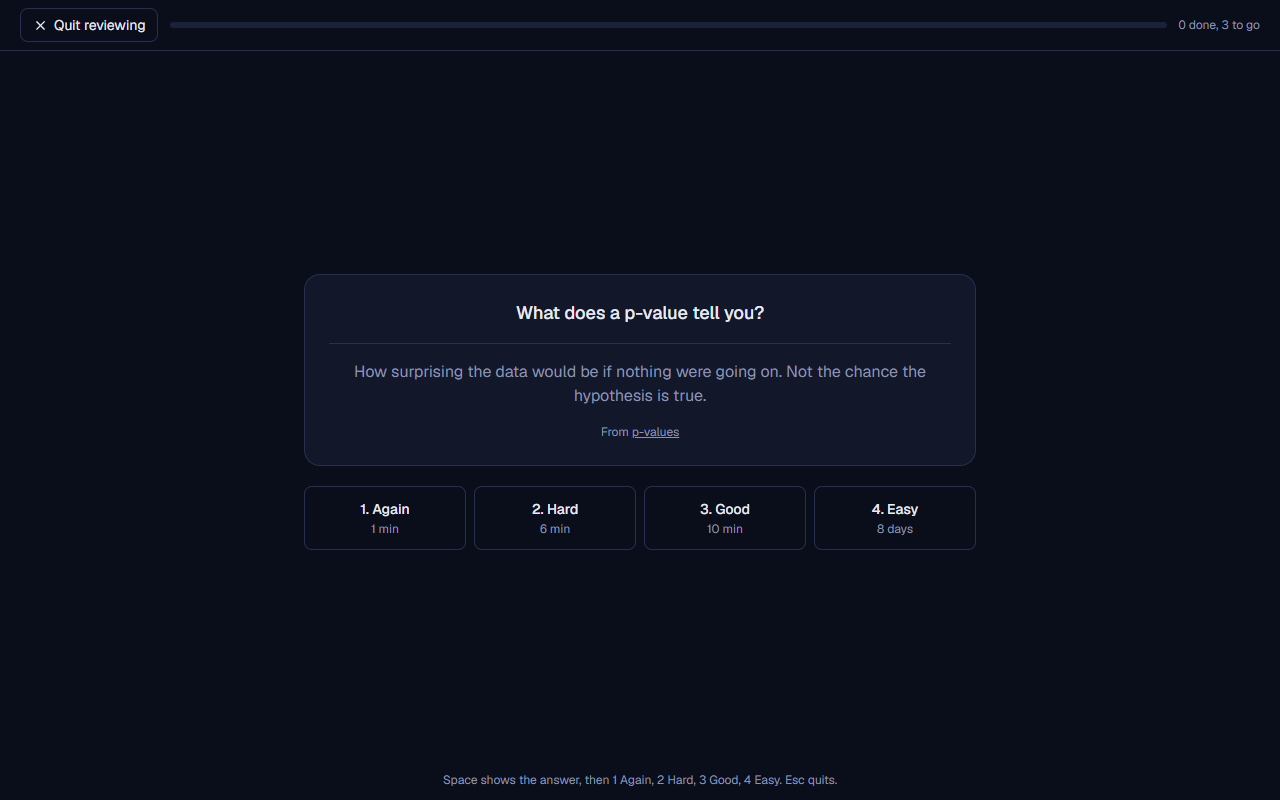
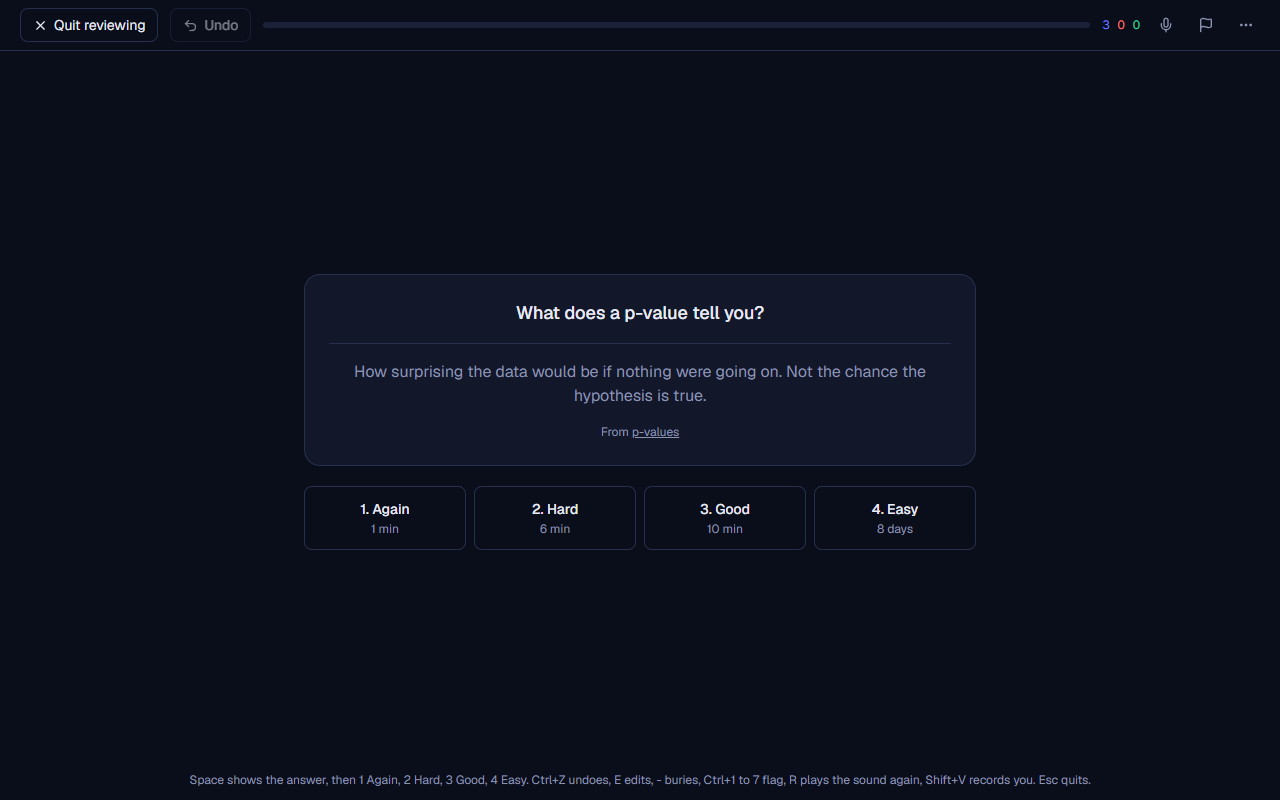
Update the site

Changed region(s): [[0.1562, 0.9688, 0.8438, 1.0], [0.8438, 0.0, 0.9688, 0.0625], [0.125, 0.0, 0.1875, 0.0625]]

diff --git a/docs/manual.html b/docs/manual.html
@@ -23,7 +23,7 @@
   </header>
 
   <h1>The full user manual</h1>
-  <p class="lead">Everything Tracker does, part by part. New here? Start with <a href="guide.html">Getting started in ten minutes</a>. This manual describes version 0.42.0; later versions may add things, and App settings, About lists what changed.</p>
+  <p class="lead">Everything Tracker does, part by part. New here? Start with <a href="guide.html">Getting started in ten minutes</a>. This manual describes version 0.47.0; later versions may add things, and App settings, About lists what changed.</p>
 
   <div class="layout">
     <nav class="toc" aria-label="Contents">
@@ -250,20 +250,31 @@
           <li>A note with a title you already have is left out, so bringing the same folder in again adds only what is new. The files themselves are only read, never changed.</li>
         </ul>
         <h3 id="flashcards">Flashcards</h3>
-        <p><strong>Flashcards</strong> is the third view of the Notes tab, next to Cards and Graph (there in a room with no notes yet too), and needs no AI. Its top says how many cards there are to study now (new, learning and to review), how many answers you gave today and how many days in a row you have studied, with <strong>Study now</strong> for every deck. The <em>More</em> button (&middot;&middot;&middot;) beside it has <em>Import from Anki</em>, <em>Export all to Anki</em> and <em>Settings</em>. Under it are three tabs, <strong>Decks</strong>, <strong>Browse cards</strong> and <strong>Add cards</strong>; the one you used last opens next time.</p>
-        <p>Studying fills the window with the cards that are due, one at a time, and nothing else: how far you are along the top, and <strong>Quit reviewing</strong> (or <kbd>Esc</kbd>) to go back. You answer <em>Again</em>, <em>Hard</em>, <em>Good</em> or <em>Easy</em>, and each button shows when the card would come back. Cards are scheduled with <strong>FSRS</strong>, the same method Anki uses: each card comes back when you would still remember it with the chance set under <em>Settings</em> (<em>Remember</em>: 80%, 85%, 90% or 95% of cards; higher means more reviews, 90% suits most). <em>New cards a day</em> (20 to begin with) is how many cards you have not seen yet are shown each day. Both are kept for each room, and every answer is kept with the card.</p>
-        <figure class="shot"><a class="zoom" href="img/flashcards.png"><img src="img/flashcards.png" width="1280" height="800" alt="Reviewing flashcards: the whole window shows one card, What does a p-value tell you, with its answer, the four answer buttons Again, Hard, Good and Easy with when each brings the card back, Quit reviewing, and how many are done and to go." loading="lazy"></a><figcaption>Reviewing flashcards.</figcaption></figure>
+        <p><strong>Flashcards</strong> is the third view of the Notes tab, next to Cards and Graph (there in a room with no notes yet too), and needs no AI. Its top says how many cards there are to study now (new, learning and to review), how many answers you gave today and how many days in a row you have studied, with <strong>Study now</strong> for every deck. The <em>More</em> button (&middot;&middot;&middot;) beside it has <em>Import from Anki</em>, <em>Import a text or CSV file</em>, <em>Export all to Anki</em>, <em>Export...</em>, <em>Check the cards</em>, <em>Study more</em> and <em>Settings</em>. Under it are four tabs, <strong>Decks</strong>, <strong>Browse cards</strong>, <strong>Add cards</strong> and <strong>Stats</strong>; the one you used last opens next time.</p>
+        <p>Studying fills the window with the cards that are due, one at a time, and nothing else: the new, learning and review cards still to come along the top, and <strong>Quit reviewing</strong> (or <kbd>Esc</kbd>) to go back. <kbd>Space</kbd> shows the answer; you answer <em>Again</em>, <em>Hard</em>, <em>Good</em> or <em>Easy</em> (<kbd>1</kbd> to <kbd>4</kbd>), and each button shows when the card would come back. Cards are scheduled with <strong>FSRS</strong>, the same method Anki uses: each card comes back when you would still remember it with the chance its deck&rsquo;s preset asks for (90% to begin with; higher means more reviews). Every answer is kept with the card.</p>
+        <figure class="shot"><a class="zoom" href="img/flashcards.png"><img src="img/flashcards.png" width="1280" height="800" alt="Reviewing flashcards: the whole window shows one card, What does a p-value tell you, with its answer, the four answer buttons Again, Hard, Good and Easy with when each brings the card back, Quit reviewing, and the cards still to come." loading="lazy"></a><figcaption>Reviewing flashcards.</figcaption></figure>
         <ul>
-          <li id="decks"><strong>Decks.</strong> A card can be in a deck: a deck is made when a card is put in it (when you add it, edit it, or move it), and <code>Chinese::HSK 1</code> is a deck inside a deck. The <em>Decks</em> tab has a tile for each deck, with how many cards it has to review, how many new ones it can show today, and how many cards it has in all, counting the decks inside it (<em>decks inside</em> opens them out, each with its own <em>Study</em>). <strong>Study</strong> on a tile studies that deck alone (<em>Done for today</em> when nothing is waiting), and <strong>Browse</strong> opens its cards. A deck&rsquo;s own menu (&middot;&middot;&middot;) has <em>Rename or move</em> (typing <code>Languages::German</code> puts German inside Languages; the decks inside go with it), <em>Export to Anki</em> and <em>Delete the deck</em>, which asks what happens to its cards: <em>Keep them</em> in the deck above (or in no deck), or <em>Delete them too</em> (with <em>Undo</em> for a few seconds). Cards in no deck have a tile of their own, <em>Not in a deck</em>.</li>
-          <li id="card-browser"><strong>Browse cards</strong> lists the cards in a table: the front, the back, the deck, when each comes back, and how often it was forgotten (on a narrow screen these go under the front). Choose a deck, search both sides, and show <em>All</em>, <em>Due</em>, <em>New</em>, <em>Learning</em>, <em>Known</em>, <em>Suspended</em> or <em>Difficult</em> cards (forgotten three times or more), in an order (the order box, or a column&rsquo;s heading). Tick cards to choose them: <kbd>Shift</kbd> with a tick chooses every card between, and the box at the top chooses every card shown, then <em>Choose all that match</em> the rest too. A bar at the bottom then works on the chosen cards together: <strong>Move to deck</strong> (a deck there or a new name; empty is no deck), <strong>Suspend</strong> (left out of reviews until taken back), <strong>Take back</strong>, <strong>Forget</strong> (new again, learned from the start; their past answers stay in the stats), <strong>Export</strong> (an Anki file of only those) and <strong>Delete</strong> (with <em>Undo</em> for a few seconds). <em>Show more</em> loads the rest of a long list.</li>
-          <li><strong>One card.</strong> Click a card&rsquo;s front to open it beside the list (over it on a phone): change its front, back or deck and <em>Save</em>, <em>Suspend</em> or <em>Delete</em> it, and see where it is in learning it, how often it was answered, where it came from, and each answer it was given with when that sent it back. <kbd>Esc</kbd> closes it.</li>
-          <li id="cloze"><strong>Cloze cards.</strong> Write a sentence on the front and select words in it, then press <strong>Make a gap</strong> (when adding a card, or in <em>Make a flashcard</em>): they become <code>{{c1::words}}</code>, as in Anki. The card asks for them with <code>[...]</code> in their place, and the back is the whole sentence (anything written on the back is added after it). Each gap number is a card of its own (<code>{{c1::...}}</code> and <code>{{c2::...}}</code> make two cards; two gaps with the same number are asked together), and <code>{{c1::onset::part}}</code> shows <em>[part]</em> as a hint.</li>
-          <li><strong>Review stats</strong> (under the decks, starts closed): how many of the cards you already knew you remembered in the last 30 days (what <em>Remember</em> in the settings aims at), your answers and time spent, how many cards are known, being learnt and new, a bar for each of the last 30 days (Again in red), and how many cards come due in the next 14 days, across every deck.</li>
-          <li><strong>Away from Tracker.</strong> If Tracker cannot be reached while you review (a phone out of the house), the review goes on: each card is scheduled on the device as it would be on the computer, and the answers wait there, in order, until Tracker can be reached; then they are sent by themselves. A line at the top says how many wait. An answer older than one given since on another device is set aside, so the order never gets mixed up.</li>
-          <li><strong>Import from Anki</strong> brings in an Anki deck (.apkg) or a whole Anki collection (.colpkg, from Anki&rsquo;s <em>Export</em> or its backups folder), from old and new versions of Anki: its decks, its cards (front and back as Anki shows them, cloze cards too, as text; pictures and sounds are left out), suspended cards, how far you are with each card (with FSRS memory when Anki had FSRS on) and the history of your answers. A card that is already here is skipped, so the same deck can be brought in again to add only what is new.</li>
-          <li><strong>Export to Anki</strong> (every card, one deck from its menu, or the chosen cards in Browse cards) saves them as an .apkg file that Anki opens, with their decks and how far you are with each. Bringing that file back here later does not make the cards twice.</li>
+          <li><strong>While reviewing.</strong> <strong>Undo</strong> (<kbd>Ctrl</kbd>+<kbd>Z</kbd>) takes back the last answer, Bury or Suspend, and again, back through the session. <kbd>E</kbd> edits the card (or its note) in place. The card&rsquo;s menu has <em>Bury until tomorrow</em> (<kbd>-</kbd>), <em>Suspend</em> (<kbd>@</kbd>, left out of reviews until taken back), <em>Delete</em> (with Undo) and <em>Open in Browse</em>; <kbd>Ctrl</kbd>+<kbd>1</kbd> to <kbd>7</kbd> set one of seven flags. <kbd>R</kbd> plays the card&rsquo;s sounds again, and <em>Record yourself</em> (<kbd>Shift</kbd>+<kbd>V</kbd>) lets you hear yourself after the card, to compare your accent. A card forgotten 8 times is a <em>leech</em>: it is tagged <code>leech</code> (and, if its preset says so, suspended), and the review says so.</li>
+          <li id="cloze"><strong>Cloze cards.</strong> Write a sentence and select words in it, then press <strong>Make a gap</strong>: they become <code>{{c1::words}}</code>, as in Anki. Each gap number is a card of its own (<code>{{c1::...}}</code> and <code>{{c2::...}}</code> make two cards; two gaps with the same number are asked together), and <code>{{c1::onset::part}}</code> shows <em>[part]</em> as a hint. On <em>Show the answer</em> the gap is filled in place and the hint goes. Once one card of a sentence or a note is answered, the others wait for the next day (<em>bury siblings</em>, in the preset).</li>
+          <li><strong>Typing the answer.</strong> With <em>Type the answer</em> on in a deck&rsquo;s <em>Options</em> (or a note type whose card asks for it), a cloze card has a box in its gap and any other card a box under its front. <kbd>Enter</kbd> checks what you typed letter by letter (right letters in green, wrong ones in red, missing ones shown) and suggests an answer, which <kbd>Enter</kbd> takes. The deck&rsquo;s language gives buttons for its letters that are hard to type (<kbd>Alt</kbd>+<kbd>1</kbd> and on), and on a phone its keyboard. Whether case, accents and spaces at the ends count is the deck&rsquo;s choice.</li>
+          <li><strong>Writing cards.</strong> <em>Write it (Chinese)</em> asks you to draw a character stroke by stroke on a pad: each stroke is checked as you draw, its outline shows after three misses, <em>Show me</em> plays the strokes in order, and the answer suggested depends on your misses. <em>Write it (any script)</em> is a free pad: draw, then compare with the answer and choose yourself. <em>Add writing cards</em> in a deck&rsquo;s menu adds a writing card to each of its notes. The review stats list the characters you miss most.</li>
+          <li id="decks"><strong>Decks.</strong> A card can be in a deck: a deck is made when a card is put in it, and <code>Chinese::HSK 1</code> is a deck inside a deck. The <em>Decks</em> tab has a tile for each deck, with how many cards it has to review, how many new ones it can show today, and how many cards it has in all (<em>decks inside</em> opens them out). <strong>Study</strong> studies that deck alone, and <strong>Browse</strong> opens its cards. A deck&rsquo;s menu (&middot;&middot;&middot;) has <em>Options</em>, <em>Study more</em>, <em>Add writing cards</em>, <em>Rename or move</em>, <em>Export to Anki</em> and <em>Delete the deck...</em>, which asks whether its cards are kept in the deck above or deleted too (with <em>Undo</em> for a few seconds).</li>
+          <li id="deck-options"><strong>Options and presets.</strong> A deck&rsquo;s <em>Options</em> hold its language and typing, and the <em>preset</em> it goes by: a named set of scheduling options shared by the decks that choose it (a deck inside another goes by the deck above unless it chooses). A preset has new cards and reviews a day (a deck inside another is held by both), the learning and relearning steps (<code>1m 10m</code>), the longest gap, how much to remember, the order of new cards and of reviews, burying siblings, leeches, and sound (play a card&rsquo;s sounds when shown, read it aloud in the deck&rsquo;s language, readings over words only with the answer). Changing how much to remember or the longest gap says first how many cards would move, and can reschedule them. <em>Settings</em> holds the Default preset, and <em>The next day starts at</em> (4 am, as in Anki: reviewing past midnight still counts for the evening).</li>
+          <li id="fsrs"><strong>FSRS in a preset.</strong> <em>Spread reviews evenly over the days</em> (load balancing, on) puts each review on the least busy of the few days FSRS leaves free around it, and <em>Easy days</em> gives the weekdays you choose fewer reviews, or none. <em>Train on my answers</em> fits FSRS to the answers of the preset&rsquo;s cards once there are 400 given a day or more apart (until then it says how many more): it trains on your earlier answers and checks on your latest ones, which it did not see, and offers the new parameters only if they predicted those better by both measures it shows (log loss and RMSE, lower is better). <em>Use them</em>, then <em>Save</em>, keeps them, and each card&rsquo;s memory is worked out again from its answers; <em>Back to the defaults</em> undoes it. <em>Suggest a retention</em> plays out a year at each retention from 70% to 95% with your own answer times and shows minutes a day and cards remembered, with the retention that costs the least time for each card remembered. That one is often the lowest offered, because forgetting more is cheap in time; choose by the table.</li>
+          <li><strong>Study more</strong> (the More menu, a deck&rsquo;s menu, or when a deck is done for the day): more new cards or reviews today, <em>Review forgotten cards</em>, <em>Review ahead</em>, <em>Preview new cards</em>, <em>Study by tag or state</em>, and <em>Cram for an exam</em> (by default its answers change nothing, so a cram the day before an exam does not push everything far away). Saved, a study is listed under the decks as a <em>study session</em> to come back to.</li>
         </ul>
-        <p><strong>Add cards</strong> adds a card by hand with a front and a back, into the deck typed or chosen at the top (<kbd>Ctrl</kbd>+<kbd>Enter</kbd> adds it, and the next one can be typed straight away). A card can also be made from a note card, a highlight in the reader (its menu), a highlight without a note, or an AI answer. Each card says which note or book it came from, as a link. A deleted card can be taken back with <em>Undo</em> for a few seconds. With the AI on, it can also write cards from a note, a course or a book for you to check.</p>
+        <p id="add-cards"><strong>Add cards</strong> makes a note: choose its note type and fill a box for each field, in the deck typed or chosen at the top (<kbd>Ctrl</kbd>+<kbd>Enter</kbd> adds it). <em>Basic</em>, <em>Basic and reversed</em> (a card each way), <em>Basic, optional reversed</em>, <em>Cloze</em>, <em>Type the answer</em>, <em>Image occlusion</em> and the two writing types are built in, and <em>Note types</em> makes your own, with the fields and cards you choose. A field can be bold, in italics, underlined, coloured, a list, and can hold pictures (paste, drag in or choose) and a recorded sound; <code>\( \)</code> and <code>\[ \]</code> draw maths, and <code>漢字[かんじ]</code> a reading over a word. A sticky field keeps its text for the next note, a note whose first field is already here is pointed out, and <em>Just added</em> lists what you added, to fix a typo. Editing a note changes all its cards; each card keeps its own schedule. <em>Image occlusion</em>: choose a picture and draw boxes over the parts to hide, a card for each. A card can also be made from a note card, a highlight in the reader, or an AI answer, and says which note or book it came from.</p>
+        <ul>
+          <li id="card-browser"><strong>Browse cards</strong> lists the cards in a table. Its search box takes Anki&rsquo;s search language: plain words search the cards&rsquo; text, and <code>deck:German</code>, <code>tag:verbs</code>, <code>flag:1</code>, <code>is:due</code>, <code>is:new</code>, <code>is:suspended</code>, <code>prop:ivl&gt;30</code>, <code>prop:r&lt;0.8</code>, <code>rated:7:1</code>, <code>added:7</code>, <code>edited:3</code>, a field by its name (<code>German:*ung</code>), <code>re:</code> for a regular expression and <code>nc:</code> for words without their accents, with <code>-</code> for not, <code>or</code> and brackets. A mistake is said under the box; <em>How to search</em> lists everything. The <em>Sidebar</em> has saved searches (<em>Save this search</em>), today, card states, flags, decks, note types and tags: a click searches, <kbd>Ctrl</kbd> adds it with <em>and</em>, <kbd>Shift</kbd> with <em>or</em>, <kbd>Alt</kbd> as <em>not</em>. Show a row for each card or each note, choose the <em>Columns</em>, and click a heading to sort by it (again for the other way).</li>
+          <li><strong>Chosen cards.</strong> Tick cards to choose them (<kbd>Shift</kbd> chooses every card between, and the box at the top every card shown, then <em>Choose all that match</em>). The bar at the bottom moves them to a deck, adds or removes tags, sets a flag, suspends or takes them back, <em>Set due date</em>, <em>Reposition new cards</em>, <em>Forget</em>, <em>Change note type</em>, <em>Replace</em> (find and replace in a field or all of them, words or a regular expression, with a preview first and <em>Undo</em> after), exports them and deletes them (with <em>Undo</em>). <em>Find duplicates</em> lists notes whose field says the same, with <em>Choose the extra copies</em>.</li>
+          <li><strong>One card.</strong> Click a card to open it beside the list: its note&rsquo;s fields, its deck, tags and flag, <em>Preview</em> (both sides as a review shows them), where it is in learning it, each answer it was given, and its memory: how its chance of remembering it fell and rose over time. <kbd>Esc</kbd> closes it.</li>
+          <li id="flash-stats"><strong>Stats</strong> (the fourth tab): today&rsquo;s answers, a year of review days with your streak, the forecast, reviews and their time by learning, young, mature and relearning, intervals, stability, difficulty and the chance of remembering each card, the hours you study, the answer buttons, cards added, a retention table, and which FSRS parameters each preset goes by. Choose 1 month, 3 months, a year or all, a deck, or the cards of any search. The smaller <em>Review stats</em> under the decks stay.</li>
+          <li><strong>Away from Tracker.</strong> If Tracker cannot be reached while you review (a phone out of the house), the review goes on: each card is scheduled on the device as it would be on the computer, and the answers wait there, in order, until Tracker can be reached; then they are sent by themselves.</li>
+          <li id="anki-import"><strong>Import from Anki</strong> brings in an Anki deck (.apkg) or a whole collection (.colpkg): its decks, notes and note types, its pictures and sounds, tags, flags, suspended cards, how far you are with each card and the history of your answers. Brought in again, a card that is already here is updated where Anki answered it since (or, as <em>Settings</em> says, left as it is). Anki&rsquo;s shared decks are on <code>ankiweb.net/shared/decks</code>: download one there, then bring it in this way.</li>
+          <li id="text-import"><strong>Import a text or CSV file</strong> brings in a word list saved from a spreadsheet as CSV, or a file Anki exported as text. Choose the file, then the separator (found by itself), the note type, the deck, tags for every note, and where each column goes (a field, the tags, the deck, or nowhere); the first rows are shown as they will come in, with how many notes that makes. A note whose first field is already here is left as it is, updated from the file, or added again, as you choose.</li>
+          <li id="export"><strong>Export...</strong> saves every deck or one as an Anki package, a CSV for a spreadsheet or Anki&rsquo;s own text, with the schedule or without. An Anki package without the schedule has every card new, with no answers, flags or suspensions: a deck to share without your progress. <em>Export all to Anki</em> is the quick way, and the chosen cards in Browse cards can be exported too.</li>
+          <li id="check-cards"><strong>Check the cards</strong> looks through the room&rsquo;s cards and offers a fix for each problem it finds: cards not showing what their note makes now, cards a note lacks, cards their note no longer makes (<em>empty cards</em>, deleted only as you tick them, since their answers go with them), dates from a clock that was wrong, cards with no memory for FSRS, notes with no card, pictures and sounds no card uses, and files cards name that are missing.</li>
+        </ul>
         <h3>The graph</h3>
         <p>Press <strong>Graph</strong> (next to <em>Cards</em>) to see your notes as dots joined by their links. Courses are the large ring-shaped dots, books are rectangles, notes are dots coloured by course (a note in two courses is split in two colours).</p>
         <figure class="shot"><a class="zoom" href="img/graph.png"><img src="img/graph.png" width="1280" height="900" alt="The notes graph with labelled dots for notes, courses and books, lines for links, and dashed lines from Random sampling and Stratified sampling to Sampling, the note they are under." loading="lazy"></a><figcaption>The graph. Drag a dot to move it; click one for its details.</figcaption></figure>
